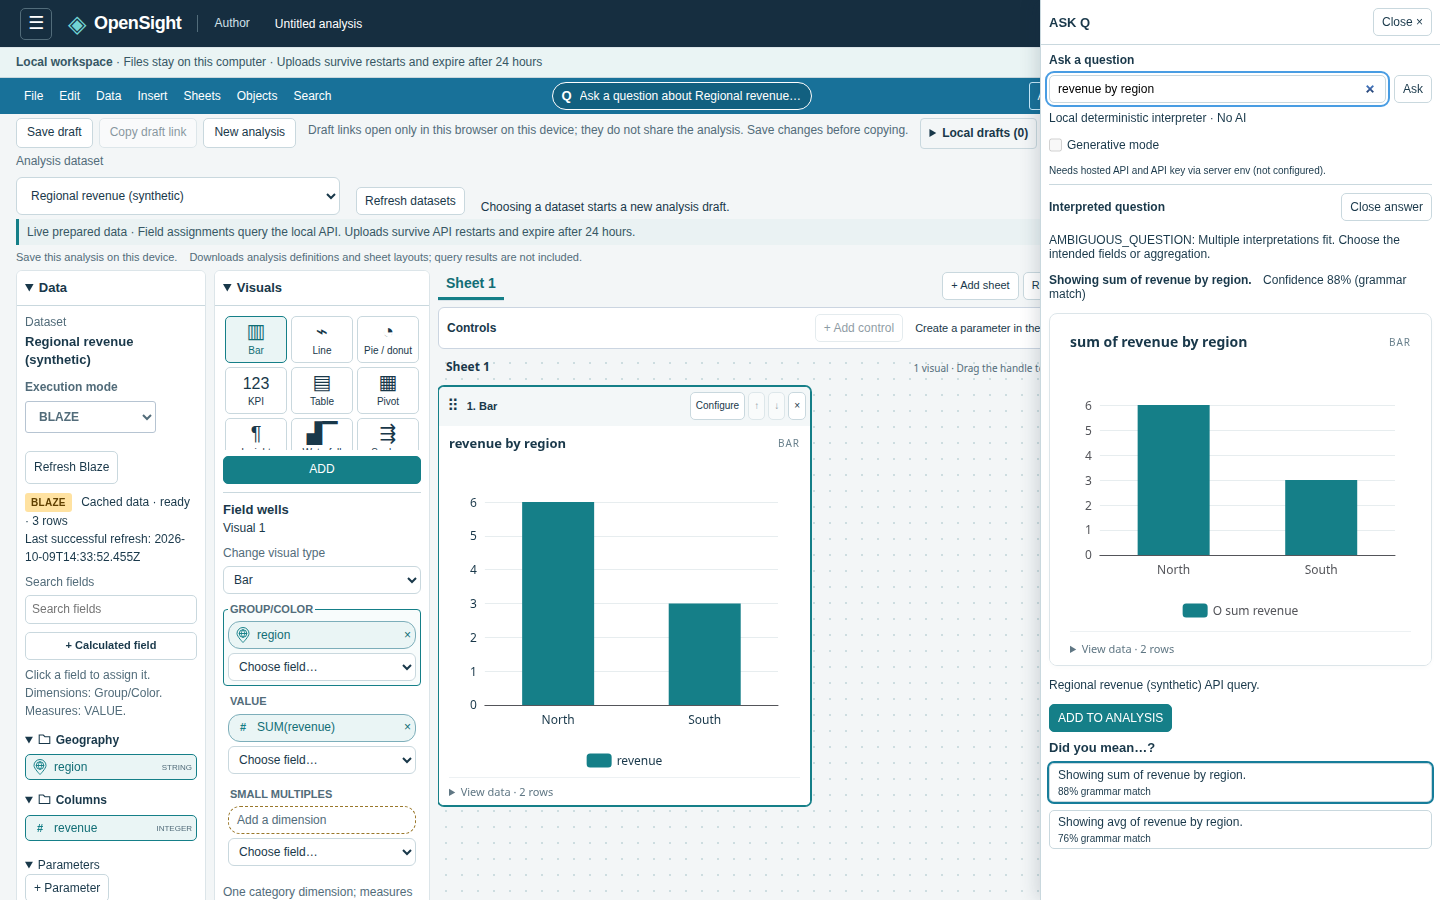
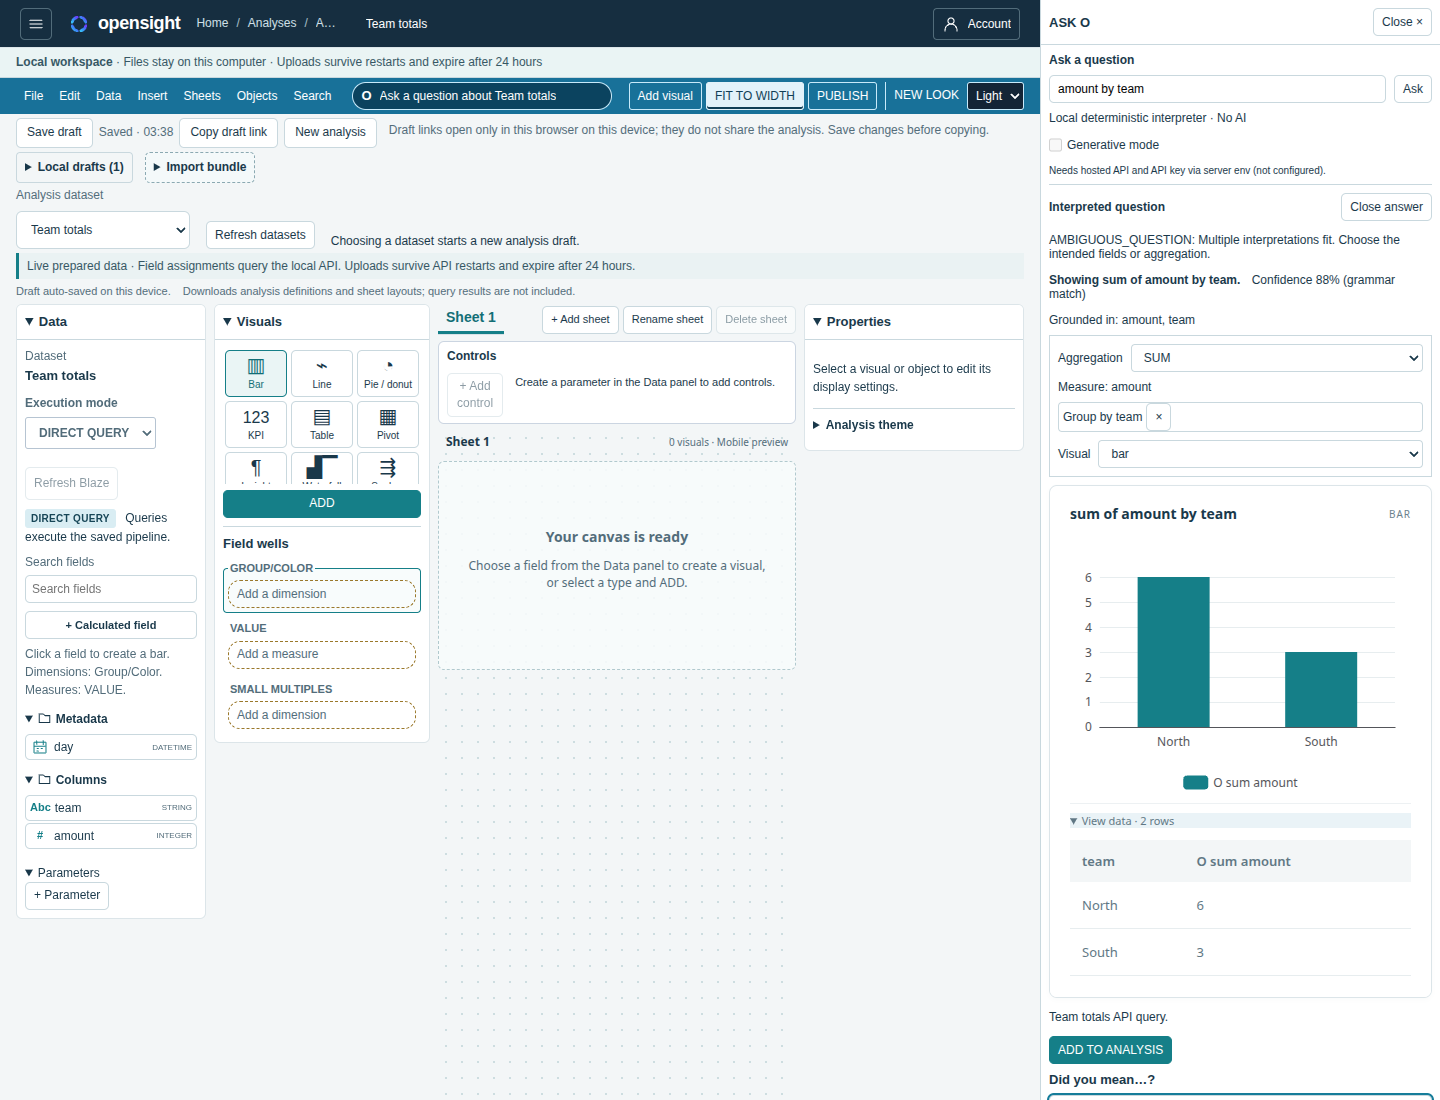
Issue 158 Item 4: refresh README Ask O imagery, tour and capture scripts

diff --git a/docs/issue-158-gap-notes.md b/docs/issue-158-gap-notes.md
@@ -1,0 +1,80 @@
+# Issue #158 verification and visual comparison
+
+The contract is [Grounded, inspectable Ask O](grounded-ask-o.md), including the
+run brief's correction of the unrelated D-56 citation. The final implementation
+keeps the existing grammar, query/preview path and API generative route. Synonyms
+are field metadata, with the local sales alias declared on the revenue field.
+No dependency or configuration change is required.
+
+## Behavioral verification
+
+The interpreter suite passes **40 / 0 failed / 0 skipped**. It covers metadata
+synonyms in measures, dimensions and filters, exact-name precedence, ambiguous
+alternatives, deduplicated field grounding, count-rows, unmatched terms and
+confidence, copied step values, and shared descriptions after edits. Reserved
+aggregation words retain their existing meaning; quoted field names still work.
+
+The focused O entry, grounding and side-panel tests pass **42 / 0 failed /
+0 skipped**. Actual fixture results change from sum to average; removing filters
+changes the prepared definition and executed rows. Edited visuals add through
+`o-add` and validate. Alternatives and new questions reset edits. Invalid Top N,
+unsupported calculations and incompatible visual groupings replace the preview
+with named errors and disable adding. Removing the final dimension while Top N
+is set fails closed with O_MISSING_DIMENSION rather than silently discarding
+Top N; clearing Top N or choosing the KPI visual (which clears Top N) recovers,
+while leaving visual selection explicit.
+API-mode edits use the same query client without synthetic fallback.
+
+## Static demo and references
+
+`npm run build:demo --workspace @opensight/web` rebuilt the single-file demo and
+embed entries. `capture-grounded-ask-o.mjs` checked Home and Author at 1440×1000,
+dark Author chrome, and Author at 390×844, with external HTTP requests blocked.
+All four checks passed with zero page errors, external requests, document
+overflow or panel overflow. The new controls use 12px editor system typography.
+The right dock and fixed Close control remain accessible as the answer scrolls.
+
+Compared with the local `qs-q-generative.jpg` reference and the previous
+`docs/images/q-side-panel.png`, the question → interpretation → preview → add
+sequence and right-side dock remain intact. Grounding and step controls occupy
+the existing panel above the preview. Their extra height requires scrolling on
+small screens. Existing differences in branding, notices, canvas layout and
+properties docking remain; no new issue-specific visual regression was found.
+Visual fidelity remains unmeasured. The static demo is not a deployed server.
+
+The README Ask O screenshot and hero tour were refreshed from the rebuilt demo.
+The maintained adaptation of `~/workspace/tools/screenshots/readme-gif.mjs`
+shows the sales synonym, SUM→AVG editing and filter removal. Its 246 frames were
+assembled with the documented ffmpeg palette workflow at 960×600 and 10fps;
+the capture reported zero browser errors and external requests.
+
+The uploaded-data screenshot was also refreshed through the real local API.
+`verify-o-answer.mjs` was updated for current dataset-selection, connector and
+save navigation. Its checks passed: 17 actual HTTP dataset queries, North 6 /
+South 3 after CSV upload, January 9 after date grouping, add-to-analysis, explicit
+source recovery after restarting its temporary API, and the offline demo.
+There were zero page errors, external requests or hosted O requests.
+
+Browser reports and captures are in `/tmp/issue158-captures/`, the tour frames
+in `/tmp/issue158-tour/`, and focused logs in `/tmp/issue158-web-final-focused.log`.
+
+## Changed-file inventory
+
+- Contract and reporting: `docs/grounded-ask-o.md`, this gap note,
+  `CHANGELOG.md`, `README.md`.
+- Interpreter: `packages/o-interpreter/src/index.ts`,
+  `packages/o-interpreter/test/parser.test.mjs`,
+  `packages/o-interpreter/test/grounding.test.mjs`.
+- Web: `packages/web/src/authoring.ts`, `packages/web/src/OEntry.tsx`,
+  `packages/web/src/o-authoring.ts`, `packages/web/src/style.css`.
+- Web tests: `packages/web/test/o-grounding.test.mjs`,
+  `packages/web/test/o-grounding-steps.test.mjs`.
+- Capture workflows: `packages/web/scripts/capture-grounded-ask-o.mjs`,
+  `packages/web/scripts/capture-readme-tour.mjs`,
+  `packages/web/scripts/verify-o-answer.mjs`.
+- README imagery: `docs/images/q-side-panel.png`, `docs/images/o-answer.png`,
+  `docs/images/opensight-tour.gif`.
+
+All commits remain on `work/issue-158-grounded-ask-o`. No push, merge,
+deployment, AWS call, dependency installation or `SOLUTION_DESIGN.md` edit
+was performed by this run.

diff --git a/docs/grounded-ask-o.md b/docs/grounded-ask-o.md
@@ -43,7 +43,7 @@ grounding: {
 
 `fieldsUsed` contains the measure, dimensions, then filter fields, deduplicated
 in that order. Count-rows has a null measure and includes only its dimensions
-and filters. `synonymsMatched` identifies matched aliases and the defined field
+and filters. `synonymsMatched` identifies matched metadata synonyms and the defined field
 chosen by that interpretation, including ambiguous alternatives independently.
 `unmatchedTerms` is the interpreter's existing unknown-token list. Interpretations
 are constructed only in the existing results loop.
@@ -90,6 +90,15 @@ Constraints:
 - Invalid edited states fail closed with named errors through the existing
   preparation/preview validation path; never silently discard requested semantics.
   Top N input outside its integer range is reported rather than silently ignored.
+
+Preparation retains `O_UNKNOWN_FIELD` and `O_UNSUPPORTED_CALCULATION`. Because
+edits can form combinations the parser does not produce, the same preparation
+path also rejects invalid Top N (`O_INVALID_TOP_N`), missing grouping
+(`O_MISSING_DIMENSION`) and incompatible aggregations, granularity or visual
+groupings (`O_UNSUPPORTED_INTERPRETATION`). Multiple dimensions require a table;
+a KPI requires no dimensions. These errors disable adding and replace the
+previous preview. Confidence continues to describe the original grammar match
+and is labeled accordingly after an edit.
 
 ## Non-goals and compatibility
 

diff --git a/README.md b/README.md
@@ -268,9 +268,13 @@ prepare its columns, save the pipeline and select **Build a chart**. See
 
 ![Live chart from a locally uploaded and prepared CSV](docs/images/local-data.png)
 
-### 💬 Ask Q
+### 💬 Ask O
 
 A shared right-side panel opens from **Ask a question** in Home and Author.
+The panel names the defined fields, matched metadata synonyms and any unmatched
+question terms. Editable aggregation, grouping, filter, Top N, date granularity
+and visual steps rerun the ordinary preview before adding a visual. See
+[grounded Ask O](docs/grounded-ask-o.md) for the bounded grammar and constraints.
 The panel contains the interpreted question, chart preview and alternatives;
 Author also offers **ADD TO ANALYSIS**. Escape or Close returns focus to the
 trigger. A local deterministic
@@ -280,7 +284,7 @@ configure a real AI provider
 (OpenAI, Anthropic, Bedrock, or a custom endpoint) for generative answers,
 gated by role.
 
-![ASK Q side panel in Author with a synthetic sales preview and ADD TO ANALYSIS](docs/images/q-side-panel.png)
+![Ask O in Author with field grounding, editable steps and a synthetic sales preview](docs/images/q-side-panel.png)
 
 ![O answer querying a locally uploaded CSV: North 6 and South 3](docs/images/o-answer.png)
 
